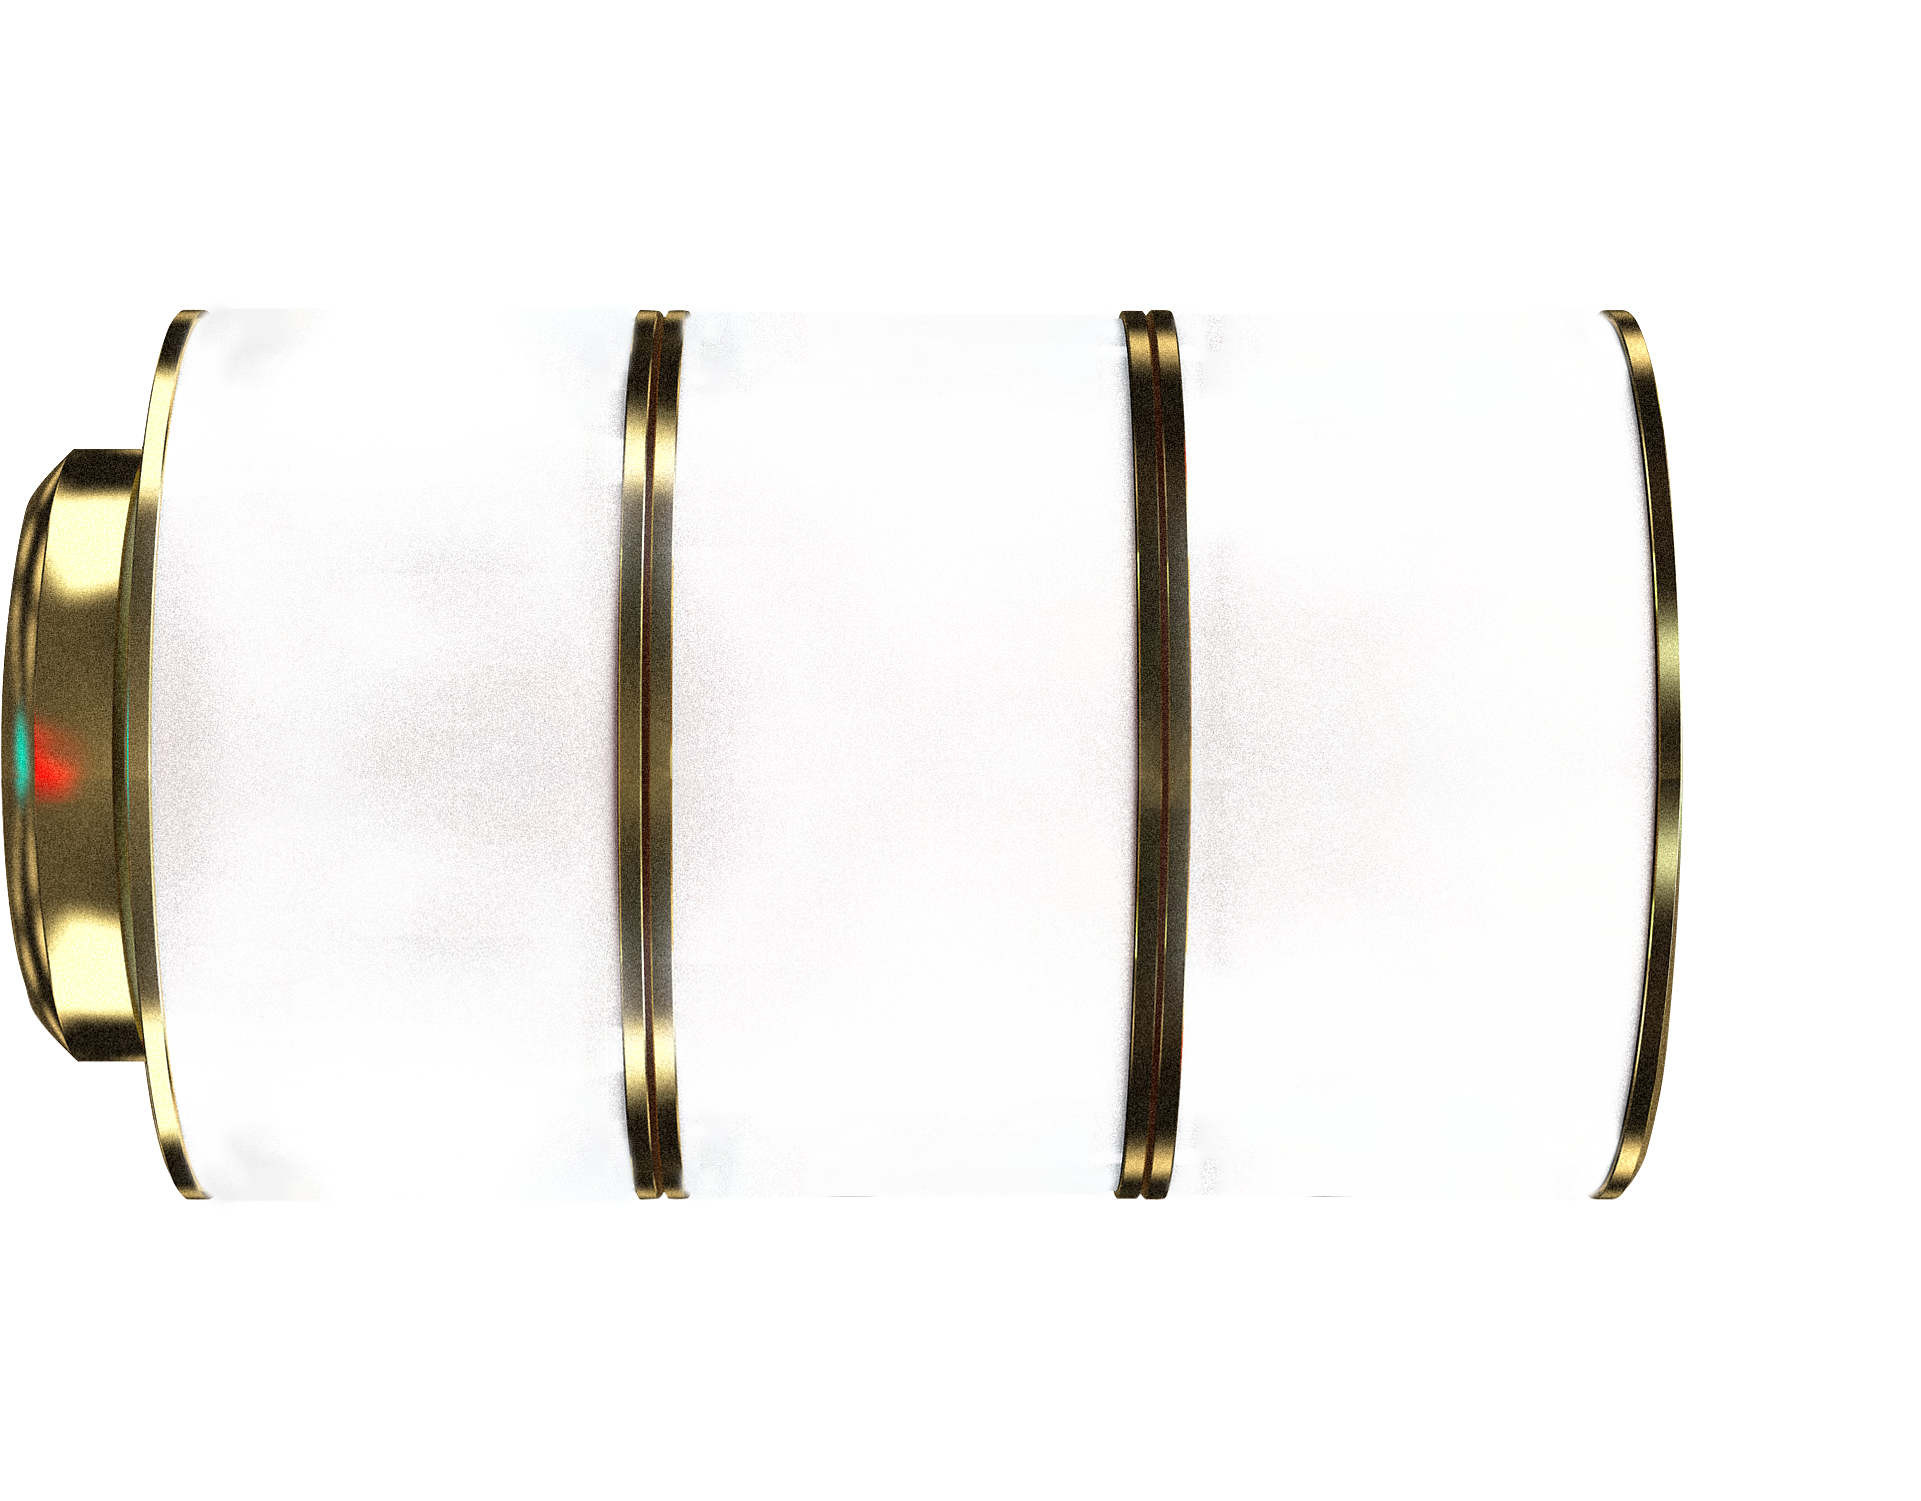
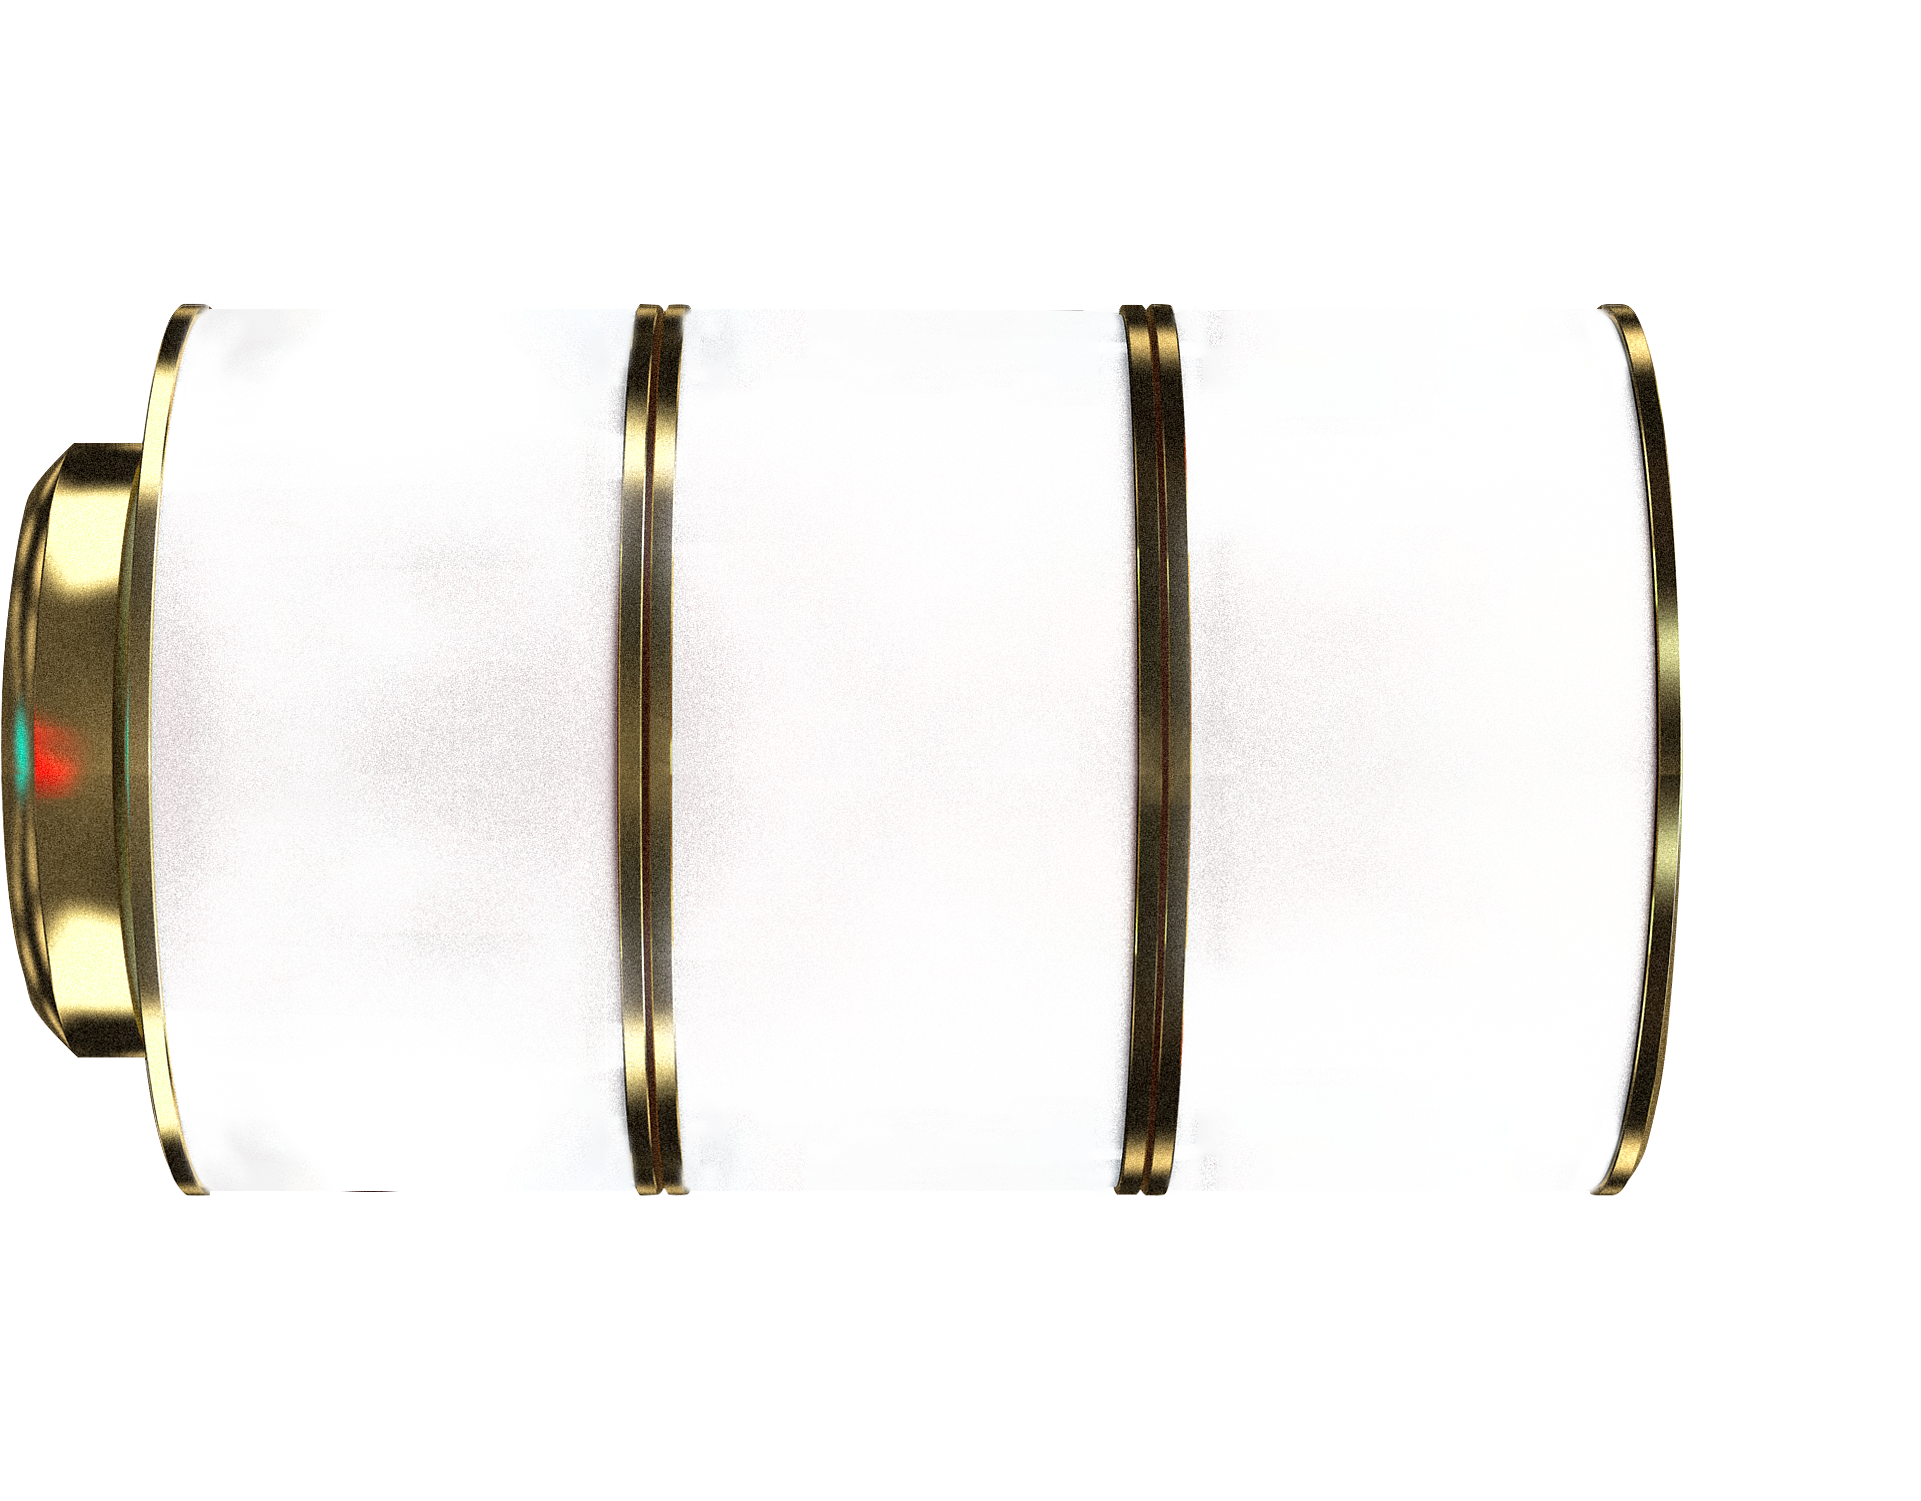
add shadow on the reels

diff --git a/styles/games/slotmachine.css b/styles/games/slotmachine.css
@@ -1,12 +1,3 @@
-/* debug */
-
-.debug {
-  position: absolute;
-  left: 0;
-  width: auto;
-  height: 100vh;
-}
-
 /* main container */
 
 .game-slotmachine {
@@ -36,7 +27,7 @@
 }
 
 #game-slotmachine-btn {
-  z-index: 100;
+  z-index: 1000;
 }
 
 .game-slotmachine-btn {
@@ -51,15 +42,19 @@
 .game-slotmachine-reels {
   top: 50%;
   left: 47%;
-  transform: translate(-50%, -50%);
+  transform: translate(-50%, -51%);
   z-index: 10;
   position: absolute;
   width: 72%;
-  height: 59%;
+  height: 57.9%;
   /* background-color: rgba(255, 0, 0, 0.266); */
   /* border: 1px solid red; */
   display: flex;
   gap: 8%;
+}
+
+.game-slotmachine-iron {
+  z-index: 100;
 }
 
 .game-slotmachine-reel {
@@ -69,6 +64,20 @@
   background-image: url(../../images/games/slotmachine/reel-symbols.png);
   background-size: cover;
   /* background-position-y: calc(-100% / var(--n-symbols) / 2); */
+  position: relative;
+}
+
+.game-slotmachine-reels::before {
+  content: "";
+  box-shadow: inset 0px 40px 30px -30px #232323, inset 0px -50px 37px -37px #232323;
+  top: -0.5%;
+  left: -3%;
+  right: 0;
+  width: 106%;
+  height: 101%;
+  position: absolute;
+  border-radius: 3%;
+  z-index: 10000;
 }
 
 /* Media queries */

diff --git a/index.html b/index.html
@@ -64,12 +64,17 @@
       </picture>
     </section>
     <section class="game-slotmachine">
-      <img class="debug" src="./images/games/slotmachine/reel-symbols.png" alt="" />
       <div class="game-slotmachine-container">
         <img
           id="game-slotmachine-btn"
           class="game-slotmachine-img game-slotmachine-btn"
           src="./images/games/slotmachine/btn-lever-up.png"
+          alt="Blinking button on top of the lever"
+          usemap="#image-map"
+        />
+        <img
+          class="game-slotmachine-img game-slotmachine-iron"
+          src="./images/games/slotmachine/slot-machine-iron.png"
           alt="Blinking button on top of the lever"
           usemap="#image-map"
         />
